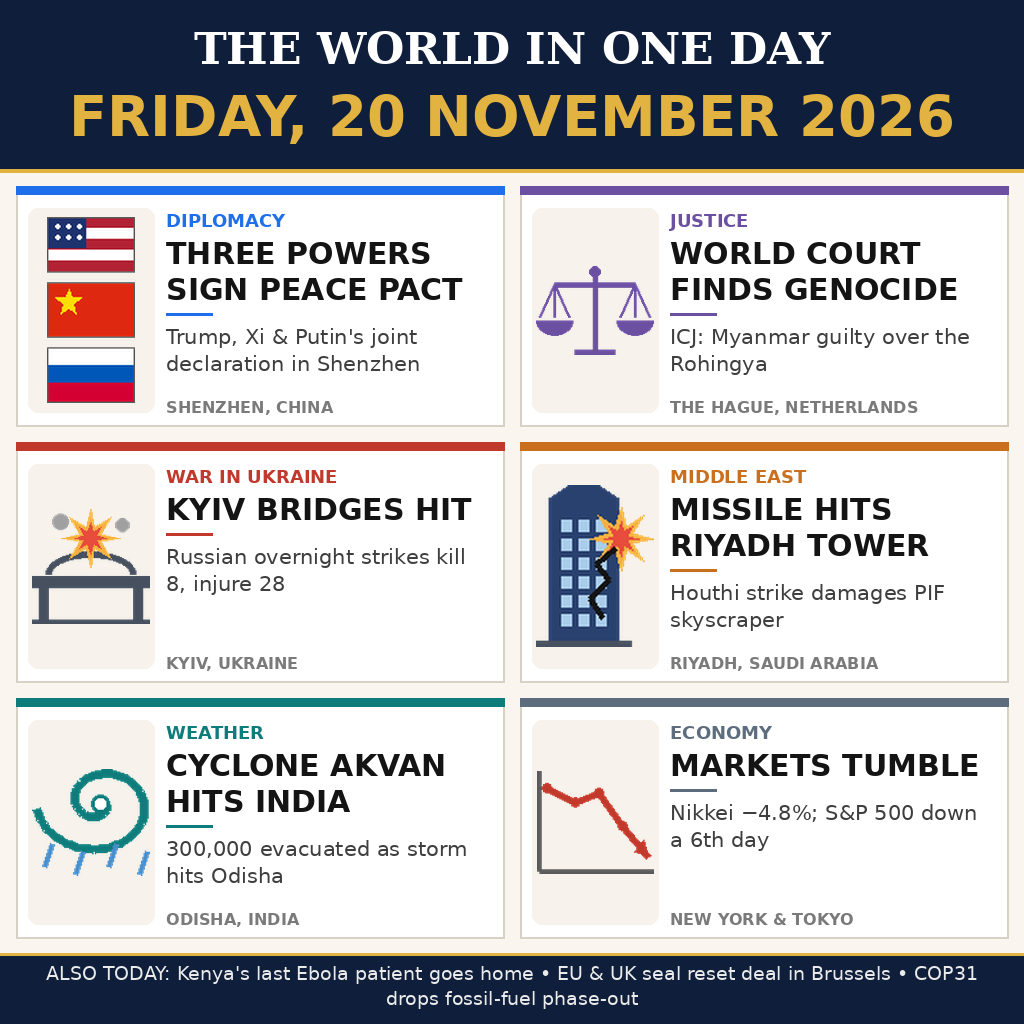
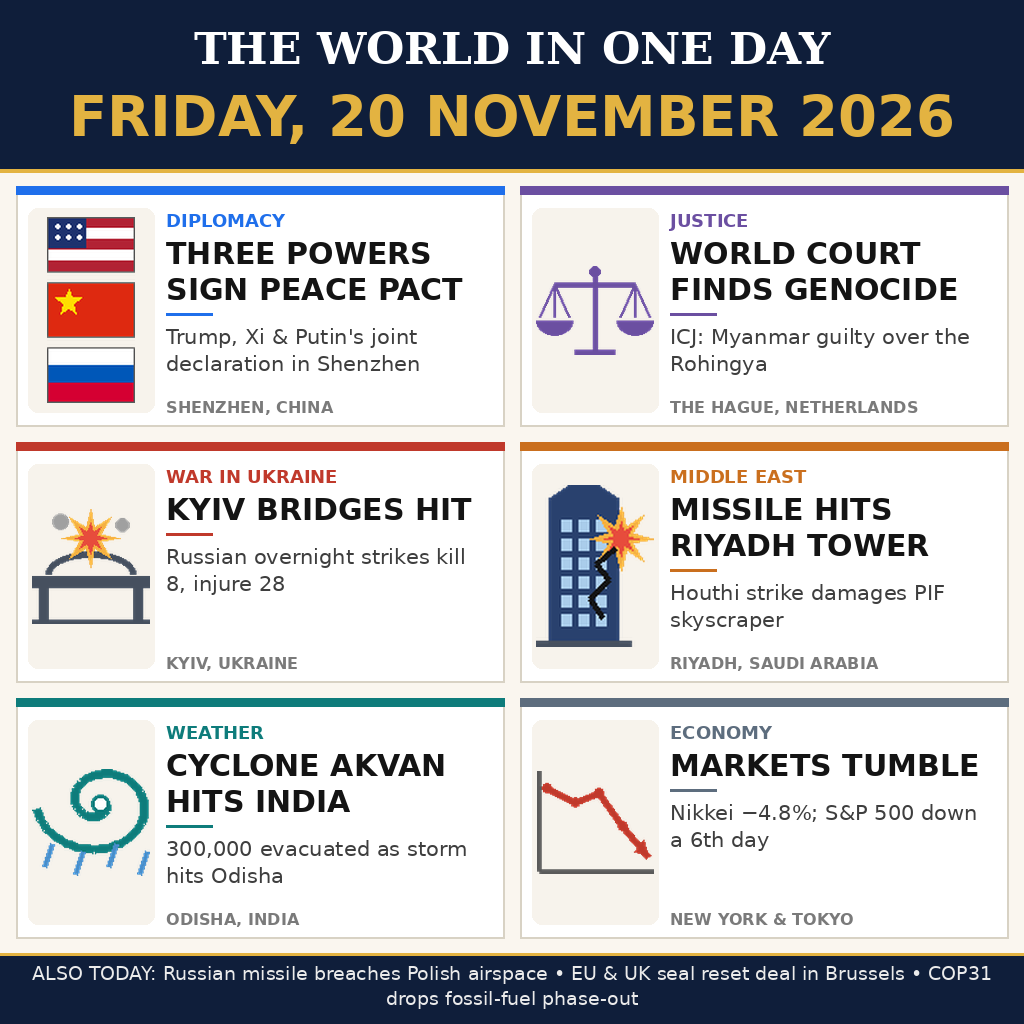
Fix ticker: replace stale Kenya Ebola item with verified 20 Nov Poland airspace story

Changed region(s): [[0.0312, 0.9375, 0.9688, 0.9688]]

diff --git a/generate_image.py b/generate_image.py
@@ -212,7 +212,7 @@ PANELS = [
      "NEW YORK & TOKYO", (93, 109, 126), "markets"),
 ]
 
-TICKER = ("ALSO TODAY: Kenya's last Ebola patient goes home  \u2022  "
+TICKER = ("ALSO TODAY: Russian missile breaches Polish airspace  \u2022  "
           "EU & UK seal reset deal in Brussels  \u2022  "
           "COP31 drops fossil-fuel phase-out")
 
